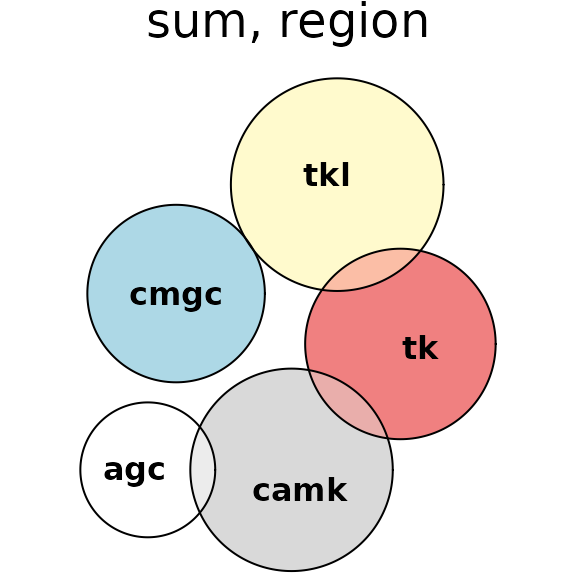
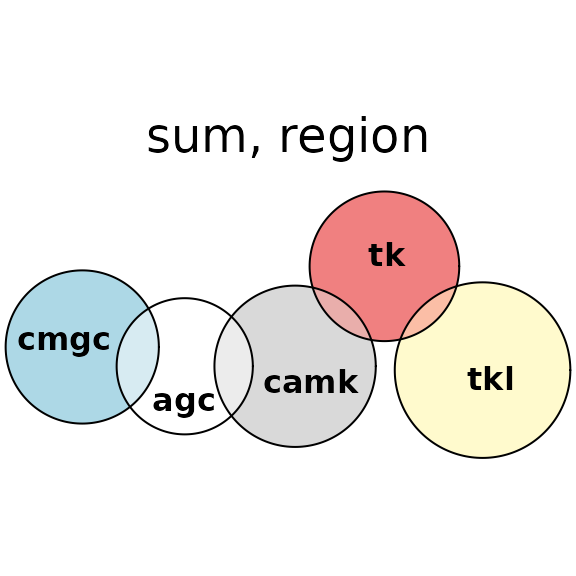
Deploying to gh-pages from @ jolars/eulerr@621a898f1e523df8f5d904a3543bb35dd1355ff8 🚀

diff --git a/dev/reference/euler.html b/dev/reference/euler.html
@@ -128,6 +128,11 @@ the CMA-ES fallback kicks in. A value of 0 means it will kick in for
 <em>any</em> error; a value of 1 means it will never kick in. Default <code>0.001</code>.</p></li>
 <li><p><code>tolerance</code>: convergence tolerance passed to the underlying solver.
 Tighter values give more accurate fits at higher cost. Default <code>1e-8</code>.</p></li>
+<li><p><code>max_sets</code>: maximum number of sets the underlying engine will accept.
+Defaults to <code>NULL</code>, which uses the engine's built-in default of 32.
+Region masks are stored in a bitset, so values may be raised up to 63
+(the absolute hard cap). Going higher is rarely useful in practice
+since fully-overlapping diagrams have <code>2^n - 1</code> regions.</p></li>
 </ul></dd>
 
 

diff --git a/dev/reference/max_sets_hard_cap.md b/dev/reference/max_sets_hard_cap.md
@@ -1,0 +1,11 @@
+# Absolute upper bound on the number of sets that `eunoia` can represent in a single diagram. Used by the R-side input validator so the cap is not hardcoded.
+
+Absolute upper bound on the number of sets that `eunoia` can represent
+in a single diagram. Used by the R-side input validator so the cap is
+not hardcoded.
+
+## Usage
+
+``` r
+max_sets_hard_cap()
+```

diff --git a/dev/reference/max_sets_default.md b/dev/reference/max_sets_default.md
@@ -1,0 +1,10 @@
+# Default number of sets that `eunoia` accepts before rejecting a spec. Used by the R-side input validator so the cap is not hardcoded.
+
+Default number of sets that `eunoia` accepts before rejecting a spec.
+Used by the R-side input validator so the cap is not hardcoded.
+
+## Usage
+
+``` r
+max_sets_default()
+```

diff --git a/dev/reference/euler.md b/dev/reference/euler.md
@@ -90,6 +90,12 @@ euler(combinations, ...)
     Tighter values give more accurate fits at higher cost. Default
     `1e-8`.
 
+  - `max_sets`: maximum number of sets the underlying engine will
+    accept. Defaults to `NULL`, which uses the engine's built-in default
+    of 32. Region masks are stored in a bitset, so values may be raised
+    up to 63 (the absolute hard cap). Going higher is rarely useful in
+    practice since fully-overlapping diagrams have `2^n - 1` regions.
+
 - weights:
 
   a numeric vector of weights of the same length as the number of rows

diff --git a/dev/reference/fit_euler_diagram.md b/dev/reference/fit_euler_diagram.md
@@ -14,6 +14,7 @@ fit_euler_diagram(
   loss_aggregator,
   extraopt_threshold,
   tolerance,
+  max_sets,
   seed
 )
 ```